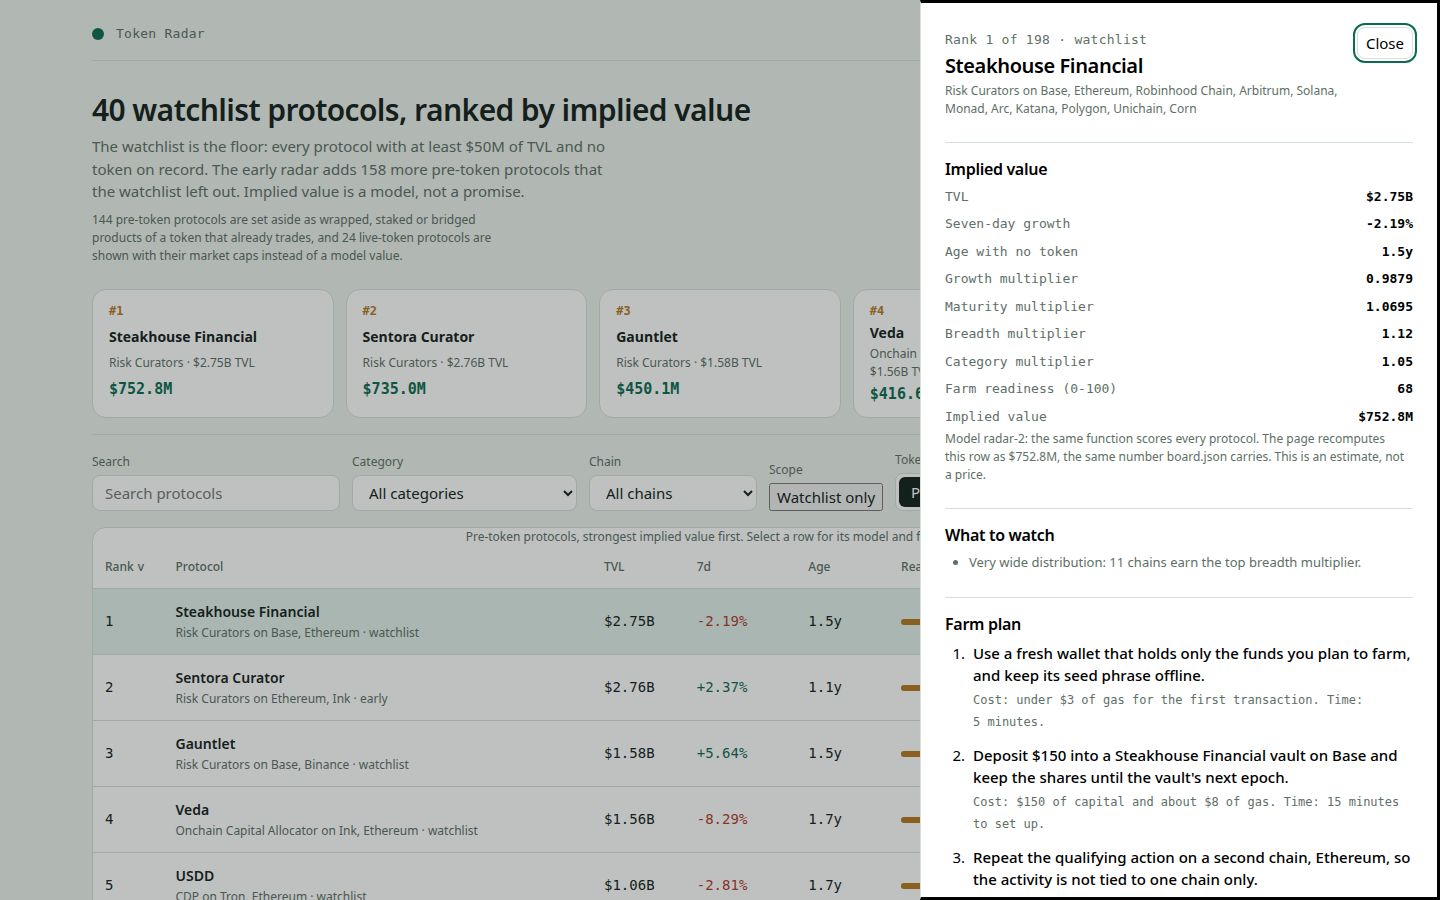
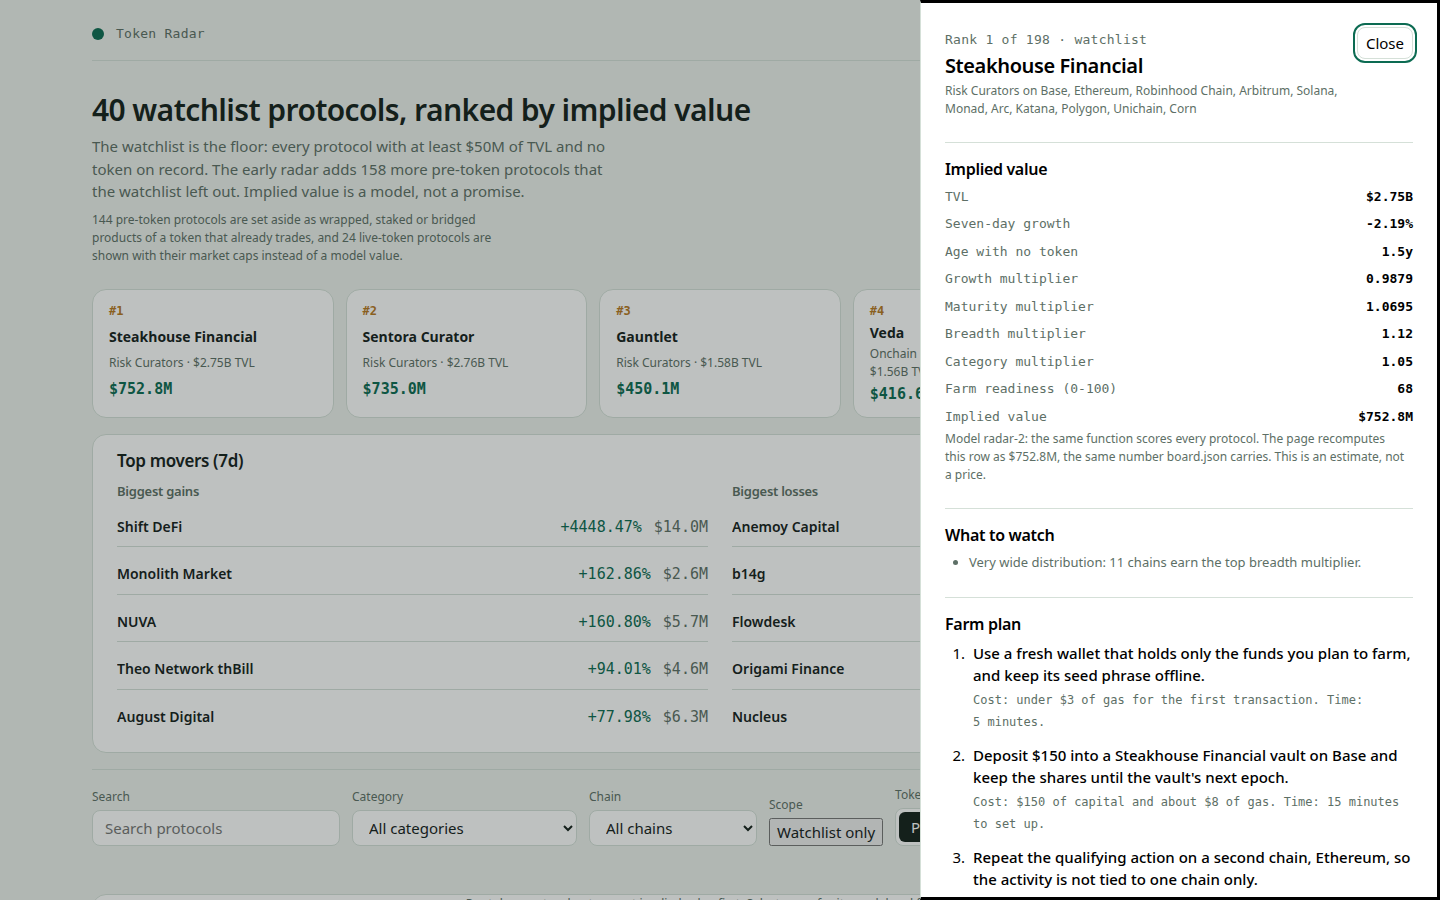
Add CSV export and Top movers panel to dashboard

diff --git a/dashboard/app.js b/dashboard/app.js
@@ -173,6 +173,81 @@
     });
   }
 
+  function csvEscapeField(value) {
+    var text = value === null || value === undefined ? '' : String(value);
+    if (text.indexOf('"') >= 0 || text.indexOf(',') >= 0 || text.indexOf('\n') >= 0) {
+      return '"' + text.split('"').join('""') + '"';
+    }
+    return text;
+  }
+  function buildCsvText(list) {
+    var headerRow = ['rank', 'name', 'category', 'chains', 'tvl_usd', 'change_7d', 'age_days', 'readiness', 'implied_value_usd'];
+    var lines = [headerRow.join(',')];
+    list.forEach(function (r) {
+      var cells = [
+        r.rank,
+        r.name,
+        r.category || '',
+        (r.chains || []).join(' + '),
+        r.tvl_usd,
+        r.change_7d === null || r.change_7d === undefined ? '' : r.change_7d,
+        r.age_days === null || r.age_days === undefined ? '' : r.age_days,
+        r.readiness,
+        shownImplied(r)
+      ];
+      lines.push(cells.map(csvEscapeField).join(','));
+    });
+    return lines.join('\n') + '\n';
+  }
+  function downloadFilteredCsv() {
+    var list = sortedRows(rows());
+    var text = buildCsvText(list);
+    var blob = new Blob([text], { type: 'text/csv;charset=utf-8' });
+    var url = URL.createObjectURL(blob);
+    var link = document.createElement('a');
+    link.href = url;
+    link.download = 'token-radar-board.csv';
+    link.textContent = 'token-radar-board.csv';
+    document.body.appendChild(link);
+    link.click();
+    document.body.removeChild(link);
+    window.setTimeout(function () { URL.revokeObjectURL(url); }, 1000);
+  }
+  function topMoversLists() {
+    var scored = DATA.rows.filter(function (r) { return r.change_7d !== null && r.change_7d !== undefined; });
+    var gainers = scored.slice().sort(function (a, b) { return b.change_7d - a.change_7d; }).slice(0, 5);
+    var losers = scored.slice().sort(function (a, b) { return a.change_7d - b.change_7d; }).slice(0, 5);
+    return { gainers: gainers, losers: losers };
+  }
+  function moverRow(r) {
+    return el('button', { type: 'button', class: 'mover-row', onclick: function () { openDetail(r.slug); } },
+      el('span', { class: 'mover-name', text: r.name }),
+      el('span', { class: 'num ' + (r.change_7d >= 0 ? 'pos' : 'neg'), text: fmtPct(r.change_7d) }),
+      el('span', { class: 'num mover-value', text: fmtUsd(r.implied_value_usd) })
+    );
+  }
+  function renderTopMovers() {
+    var lists = topMoversLists();
+    var template = document.getElementById('top-movers-template');
+    var panel;
+    if (template && template.content && template.content.firstElementChild) {
+      panel = template.content.firstElementChild.cloneNode(true);
+    } else {
+      panel = el('section', { class: 'movers-panel', 'aria-label': 'Top movers (7d)' }, el('h2', { text: 'Top movers (7d)' }));
+    }
+    var cols = panel.querySelector('.movers-cols');
+    if (!cols) { cols = el('div', { class: 'movers-cols' }); panel.appendChild(cols); }
+    cols.appendChild(el('div', { class: 'movers-col' },
+      el('h3', { text: 'Biggest gains' }),
+      lists.gainers.map(function (r) { return moverRow(r); })
+    ));
+    cols.appendChild(el('div', { class: 'movers-col' },
+      el('h3', { text: 'Biggest losses' }),
+      lists.losers.map(function (r) { return moverRow(r); })
+    ));
+    return panel;
+  }
+
   function header() {
     return el('header', { class: 'top' },
       el('div', { class: 'brand' }, el('span', { class: 'mark' }), el('span', { class: 'brand-name', text: 'Token Radar' })),
@@ -238,6 +313,7 @@
       el('div', { class: 'field' }, el('label', { for: 'chain', text: 'Chain' }), chainSel),
       el('div', { class: 'field' }, el('span', { class: 'sub', text: 'Scope' }), watchBtn),
       el('div', { class: 'field' }, el('span', { class: 'sub', text: 'Token status' }), el('div', { class: 'tabs' }, pre, live)),
+      el('div', { class: 'field' }, el('span', { class: 'sub', text: 'Export' }), el('button', { type: 'button', class: 'csv-button', text: 'Download CSV', onclick: function () { downloadFilteredCsv(); } })),
       el('span', { class: 'count', text: state.tab === 'pre-token' ? rows().length + ' rows shown' : DATA.live.length + ' live-token protocols' })
     );
   }
@@ -428,6 +504,7 @@
     shell.appendChild(header());
     shell.appendChild(lede());
     shell.appendChild(spotlight());
+    if (state.tab === 'pre-token') shell.appendChild(renderTopMovers());
     shell.appendChild(controls());
     shell.appendChild(state.tab === 'pre-token' ? boardTable() : liveTable());
     if (state.tab === 'pre-token') shell.appendChild(modelPanel());

diff --git a/dashboard/app.css b/dashboard/app.css
@@ -153,3 +153,28 @@ tbody tr[data-selected="true"] { background: var(--accent-soft); }
 @media (prefers-reduced-motion: reduce) {
   *, *::before, *::after { transition-duration: 0.01ms !important; animation-duration: 0.01ms !important; animation-iteration-count: 1 !important; }
 }
+
+.movers-panel {
+  background: var(--surface); border: 1px solid var(--border); border-radius: var(--radius-panel);
+  padding: var(--step-4) var(--step-5); margin-bottom: var(--step-4); display: grid; gap: var(--step-3);
+}
+.movers-panel h2 { font-size: 17px; }
+.movers-cols { display: grid; grid-template-columns: 1fr 1fr; gap: var(--step-5); }
+.movers-col { display: grid; gap: var(--step-2); align-content: start; }
+.movers-col h3 { font-size: 13px; color: var(--muted); font-weight: 600; }
+.mover-row {
+  display: grid; grid-template-columns: minmax(0, 1fr) auto auto; gap: var(--step-3); align-items: baseline;
+  text-align: left; padding: var(--step-2) 0; border: 0; border-bottom: 1px solid var(--border); background: none;
+}
+.mover-row:last-child { border-bottom: 0; }
+.mover-row:hover .mover-name { color: var(--accent); }
+.mover-name { font-weight: 600; font-size: 14px; overflow: hidden; text-overflow: ellipsis; white-space: nowrap; }
+.mover-value { color: var(--muted); }
+.csv-button {
+  min-height: 36px; padding: 0 var(--step-4); border: 1px solid var(--accent); border-radius: var(--radius-control);
+  background: var(--accent); color: var(--surface); white-space: nowrap;
+}
+.csv-button:hover { background: var(--ink); border-color: var(--ink); }
+@media (max-width: 900px) {
+  .movers-cols { grid-template-columns: 1fr; }
+}

diff --git a/dashboard/index.html b/dashboard/index.html
@@ -10,6 +10,13 @@
 <body>
 <a class="skip" href="#board">Skip to the board</a>
 <main id="board" tabindex="-1" aria-busy="true"></main>
+<!-- Top movers panel skeleton, filled by renderTopMovers in app.js. -->
+<template id="top-movers-template">
+  <section class="movers-panel" aria-label="Top movers (7d)">
+    <h2>Top movers (7d)</h2>
+    <div class="movers-cols"></div>
+  </section>
+</template>
 <script src="../data.js"></script>
 <script src="app.js"></script>
 </body>
